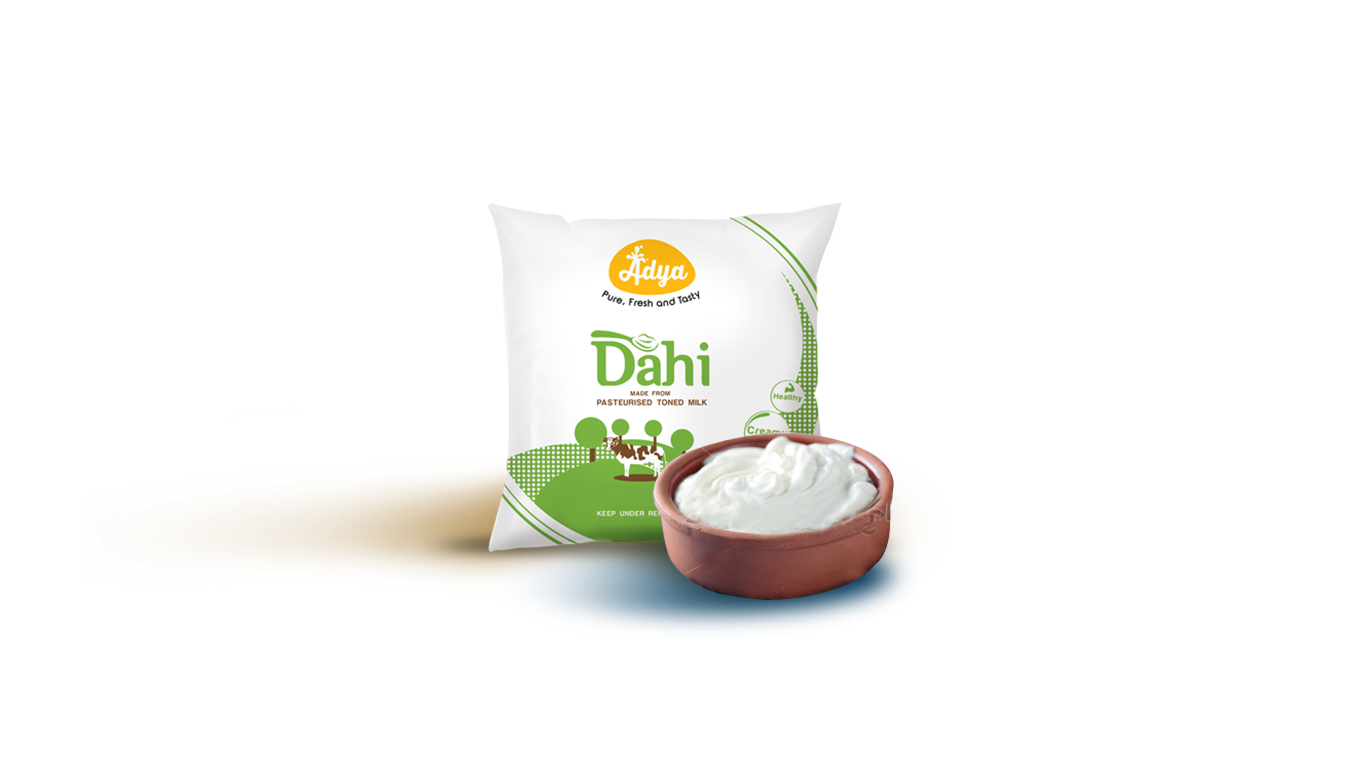
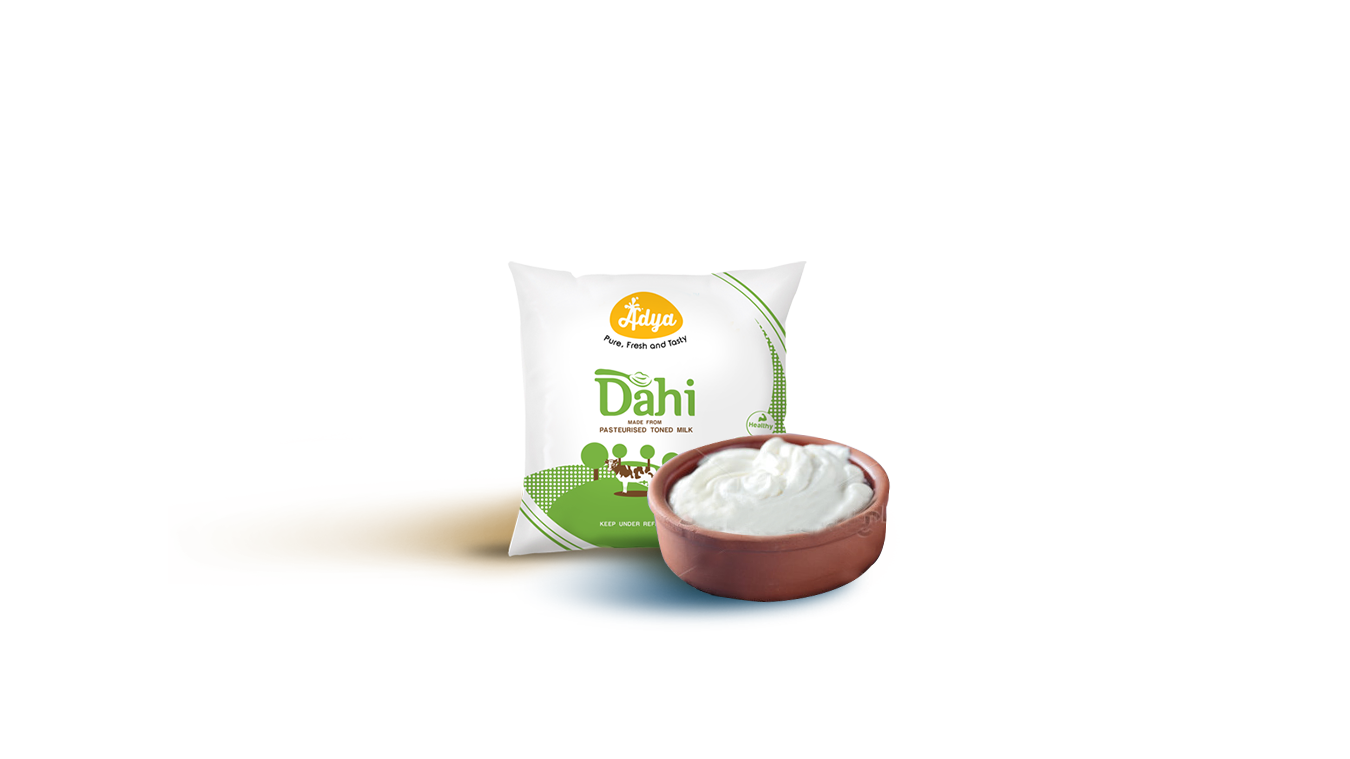
sorted some what

Changed region(s): [[0.2489, 0.2727, 0.6844, 0.8485], [0.5289, 0.2727, 0.56, 0.303]]

diff --git a/sass/_mobile.scss b/sass/_mobile.scss
@@ -13,26 +13,26 @@
 // media query
 @media (max-width: $screen-md-max) {
   // Home
-  .milk .milk-package {
-    top: 355px;
-    right: 270px;
-  }
+//  .milk .milk-package {
+//    top: 355px;
+//    right: 270px;
+//  }
   .milk .milk-all {
     top: 385px;
     right: 95px;
   }
-  .dahi .dahi-package {
-    top: 70px;
-    left: 100px;
-  }
+//  .dahi .dahi-package {
+//    top: 70px;
+//    left: 100px;
+//  }
   .dahi .dahi-cup {
     top: 310px;
     left: 470px;
   }
-  .paneer .paneer-package {
-    width: 30%;
-    margin-left: 120px;
-  }
+//  .paneer .paneer-package {
+//    width: 30%;
+//    margin-left: 120px;
+//  }
   // About us
   .team-members {
     .manan, .aadil, .viraj { margin: 55px 0 0 20px; }
@@ -52,26 +52,26 @@
 
 @media (max-width: $screen-sm-max) {
   // Home
-  .milk .milk-package {
-    top: 265px;
-    right: 205px;
-  }
+//  .milk .milk-package {
+//    top: 265px;
+//    right: 205px;
+//  }
   .milk .milk-all {
     top: 300px;
     right: 70px;
   }
-  .dahi .dahi-package {
-    top: 65px;
-    left: 75px;
-  }
+//  .dahi .dahi-package {
+//    top: 65px;
+//    left: 75px;
+//  }
   .dahi .dahi-cup {
     top: 240px;
     left: 355px;
   }
-  .paneer .paneer-txt { transform: translate(-50%, 0%); }
-  .paneer .paneer-package {
-    margin: 200px 0 0 60px;
-  }
+
+//  .paneer .paneer-package {
+//    margin: 200px 0 0 60px;
+//  }
   .title { font-size: 32px; }
   // About us
   .team-members {
@@ -142,6 +142,7 @@
   // plant
   .slider .slide-imgholder { margin-bottom: 50px; }
   .slider .main-slidepart { display: none; }
+	  .paneer .paneer-inner .paneer-txt { left: 10px}
 }
 
 @media (max-width: 550px) {}

diff --git a/sass/_harsh.scss b/sass/_harsh.scss
@@ -86,7 +86,7 @@ table.table-curved {
 }
 .button-fix {
   line-height: 100%;
-  padding: 10px 10px 5px;
+  padding: 10px 10px 8px;
   font-weight: bold;
 }
 
@@ -123,30 +123,33 @@ table.table-curved {
   .dahi-image { margin-top: 90px; position: relative; z-index: 5; }
 
   .milk-package, .milk-all, .dahi-package, .dahi-cup, .paneer-inner { position: absolute; }
-  .milk-package {
-    width: 22%;
-    top: 435px;
-    right: 325px;
-  }
+ .milk-package,.dahi-package {
+	top:0px;
+ }
   .milk-all {
     width: 22%;
     top: 475px;
     right: 115px;
     z-index: -1;
   }
-  .dahi-package {
-    width: 72%;
-    top: 100px;
-    left: 100px;
+//  .dahi-package {
+//    width: 72%;
+//    top: 100px;
+//    left: 100px;
+//  }
+//  .dahi-cup {
+//    width: 17%;
+//    top: 375px;
+//    left: 560px;
+//  }
+  .paneer-inner {
+  .paneer-txt {
+    left: 8%;
+} 
   }
-  .dahi-cup {
-    width: 17%;
-    top: 375px;
-    left: 560px;
-  }
-  .paneer-inner { width: 100%; }
   .paneer-package {
-    margin: 100px 0 0 140px;
+    top:0;
+	  position: absolute;
   }
 }
 .contact-bg {

diff --git a/views/section/section4.html b/views/section/section4.html
@@ -1,20 +1,18 @@
 <div class="paneer">
-  <div class="container">
     <div class="paneer-section">
-      <div class="paneer-inner">
+      <div class="paneer-inner dahi">
         <div class="paneer-txt">
           <h2 class="font-funky brand-title title">paneer</h2>
           <p>Lorem ipsum dolor sit amet, consectetur adipisicing elit, sed do eiusmod tempor</p>
           <a href="#/paneer" class="btn butn button-fix text-uppercase">Know More</a>
         </div>
-        <div class="paneer-package">
-          <img src="img/home/home-paneer.png" alt="" class="img-responsive" />
-        </div>
+
       </div>
-    </div>
-  </div>
-  <div class="paneer-image">
+        <div class="paneer-image">
     <img src="img/home/paneer-section.gif" alt="Paneer" class="img-responsive" />
   </div>
-
-</div>
+            <div class="paneer-package">
+          <img src="img/home/home-paneer.png" alt="" class="img-responsive" />
+        </div>
+    </div>
+  </div>

diff --git a/views/section/section2.html b/views/section/section2.html
@@ -1,14 +1,16 @@
 <div class="milk">
   <div class="container">
 
-    <div class="milk-section">
+
       <div class="milk-txt">
         <h2 class="font-funky brand-title title">milk</h2>
         <p class="white">Lorem ipsum dolor sit amet, consectetur adipisicing elit, sed do eiusmod tempor</p>
         <a href="#/milk" class="btn butn-inverse button-fix text-uppercase">Know More</a>
       </div>
-
+		<div class="start-img">
       <img src="img/start.png" alt="" class="img-responsive" />
+		</div>
+         <div class="milk-section">
       <div class="milk-image">
         <img src="img/home/milk-section.gif" alt="Milk" class="img-responsive" />
       </div>

diff --git a/views/section/section3.html b/views/section/section3.html
@@ -11,11 +11,13 @@
         <img src="img/home/dahi-section.gif" alt="Dahi" class="img-responsive" />
       </div>
       <div class="dahi-package">
-        <img src="img/home/home-dahi.png" alt="" class="img-responsive" />
+        <img src="img/home/dahi-section.png" alt="" class="img-responsive" />
       </div>
+<!--
       <div class="dahi-cup">
         <img src="img/home/home-dahicup.png" alt="" class="img-responsive" />
       </div>
+-->
     </div>
 
   </div>

diff --git a/views/section/footer.html b/views/section/footer.html
@@ -1,4 +1,5 @@
-<div class="contact-bg">
+<div class="bg-contact">
+ <div class="contact-bg">
   <div class="container">
     <div class="row">
       <div class="contactus white">
@@ -32,4 +33,5 @@
       </div>
     </div>
   </div>
+</div>
 </div>

diff --git a/sass/main.scss b/sass/main.scss
@@ -231,9 +231,11 @@ a:hover {
     }
   }
 }
-.about-bg {
-  @include linear-gradient(to bottom, #F0F0F0 0%, #FFFFFF 30%);
+.about-bg,
+.bg-contact {
+background-color: #EAEAEA;
 }
+
 
 // /////////////////////////
 // ABOUT US
